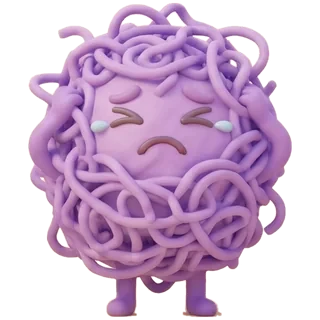
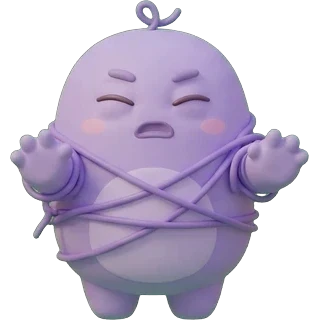
v68：做不到、壓力怪獸重畫（以生氣怪獸為標準）
Claude-Session: https://claude.ai/code/session_01CEkvYNHVvdcEjerzsjeVzZ

diff --git a/js/backup.js b/js/backup.js
@@ -12,7 +12,7 @@ if('serviceWorker' in navigator&&/^https?:$/.test(location.protocol)){
   /* 從背景切回來時，順便問一下有沒有新版 */
   document.addEventListener('visibilitychange',()=>{if(!document.hidden)navigator.serviceWorker.getRegistration().then(r=>r&&r.update()).catch(()=>{})});
   setTimeout(()=>{try{if(sessionStorage.getItem('cmUpdated')){sessionStorage.removeItem('cmUpdated');toast('✨ 已經更新到最新版本（'+APP_VER+'）')}}catch(e){}},1500)}
-const APP_VER='v67';
+const APP_VER='v68';
 function isStandalone(){try{return navigator.standalone===true||matchMedia('(display-mode: standalone)').matches}catch(e){return false}}
 function renderApp(){const box=$('#appBox');if(!box)return;
   const ver=`<br><small style="color:#9b8a7a">目前版本：${APP_VER}</small>`;

diff --git a/sw.js b/sw.js
@@ -1,6 +1,6 @@
 /* 離線快取（v21）：第一次開啟時把整個工具存進裝置，之後沒有網路也能開，而且一點就開。
    ★ 每次更新程式或圖片，都要把下面的 VERSION 改掉（例如 v21 → v22），裝置才會抓新版。 */
-const VERSION='v67';
+const VERSION='v68';
 const CACHE='calm-monster-'+VERSION;
 const FILES=[
   './',

diff --git a/tools/cutout.py b/tools/cutout.py
@@ -1,0 +1,63 @@
+"""綠幕角色圖：去背、去綠邊、切成一隻一隻、丟掉殘影頭、頂滿高度裁切、存 webp（高 320）。
+用法：python3 cutout.py 輸入.jpg 輸出前綴 [張數]
+  張數＝一排有幾隻（1 或 4）。輸出：前綴0.webp…（由左到右）"""
+import sys
+import numpy as np
+from PIL import Image
+from scipy import ndimage
+
+src,prefix=sys.argv[1],sys.argv[2];want=int(sys.argv[3]) if len(sys.argv)>3 else 1
+im=np.asarray(Image.open(src).convert('RGB')).astype(float)
+H,W,_=im.shape
+r,g,b=im[...,0],im[...,1],im[...,2]
+# 綠的程度：綠色比紅藍高多少
+greenness=g-np.maximum(r,b)
+# 背景：很綠；邊緣漸層
+alpha=np.clip((150-greenness)/(150-70),0,1)   # greenness ≥150 全透明；≤70 全不透明
+# 去綠邊：把綠色壓到不超過紅藍的較大者
+spill=np.clip(g-np.maximum(r,b),0,None)
+g2=g-spill*(1-alpha*0.0)                       # 全部去綠（角色本身沒有超過紅藍的綠，除了小勾勾）
+keep_green=(greenness>20)&(greenness<70)&(g<215) # 角色上的深綠小東西（打勾）保留原色
+g2=np.where(keep_green,g,g2)
+rgb=np.stack([r,np.minimum(g,np.maximum(g2,0)),b],2)
+
+solid=alpha>0.5
+lab,n=ndimage.label(solid)
+sizes=ndimage.sum(solid,lab,range(1,n+1))
+objs=ndimage.find_objects(lab)
+comps=[(i+1,sizes[i],objs[i]) for i in range(n) if sizes[i]>H*W*0.0004]
+# 腳底基準：最大幾塊的最低點
+bottoms=sorted([o[0].stop for _,s,o in comps],reverse=True)
+base=bottoms[0]
+# 只留「腳踩在基準線附近」的大塊（丟掉上方殘影頭），以及附在牠身上的小東西
+main=[c for c in comps if c[2][0].stop>base-H*0.12 and c[1]>H*W*0.01]
+main.sort(key=lambda c:c[2][1].start)
+if len(main)!=want:
+    print('警告：找到',len(main),'隻，預期',want)
+mask_all=np.zeros((H,W),bool)
+for lab_id,_,_ in main: mask_all|=(lab==lab_id)
+# 小配件（旗子、紙、筆）：不在主塊但跟主塊很近、而且不在殘影區（底部低於殘影）
+for lab_id,s,o in comps:
+    if any(lab_id==m[0] for m in main):continue
+    ys,xs=o
+    near=any(abs(ys.stop-m[2][0].stop)<H*0.6 and xs.start<m[2][1].stop+40 and xs.stop>m[2][1].start-40 and ys.start>m[2][0].start-H*0.08 for m in main)
+    if near: mask_all|=(lab==lab_id)
+# 擴一點點，把邊緣半透明的像素也包進來
+grow=ndimage.binary_dilation(mask_all,iterations=4)
+a=np.where(grow,alpha,0)
+for k,(lab_id,_,o) in enumerate(main):
+    ys,xs=o
+    # 這一隻的範圍：左右用相鄰兩隻的中間當界線
+    left=0 if k==0 else (main[k-1][2][1].stop+xs.start)//2
+    right=W if k==len(main)-1 else (xs.stop+main[k+1][2][1].start)//2
+    sub=a[:,left:right]
+    rows=np.nonzero(sub.max(1)>0.05)[0];cols=np.nonzero(sub.max(0)>0.05)[0]
+    y0,y1=rows[0],rows[-1]+1;x0,x1=cols[0]+left,cols[-1]+1+left
+    crop_rgb=rgb[y0:y1,x0:x1];crop_a=a[y0:y1,x0:x1]
+    out=np.dstack([crop_rgb,crop_a*255]).clip(0,255).astype(np.uint8)
+    img=Image.fromarray(out,'RGBA')
+    h=320;w=round(img.width*h/img.height)
+    img=img.resize((w,h),Image.LANCZOS)
+    name=f'{prefix}{k}.webp'
+    img.save(name,'WEBP',quality=90,method=4)
+    print(name,img.size,'寬高比',round(w/h,2))

diff --git a/docs/角色規格.md b/docs/角色規格.md
@@ -24,8 +24,16 @@
 - 檔名：`{key}0–4.webp`（平靜＋4 種大小）、`{key}g1–4.webp`（成長）；寬高比不是 1 的話，寫進 `js/data.js` 的 `ASPECT`
 - 處理：`python3 tools/tone.py img 輸出資料夾 --dry` 先看數值，再正式處理
 
-## 目前跟標準差比較多的（2026-11-28 盤點）
-- 做不到（stuck）：毛線球身體、細手腳、小黑點眼睛
-- 壓力（stress）：整隻是書包、旁邊有書
-- 孤單（lonely）：燈籠會發光（光線方向跟大家不一樣，是設計）
-- 難過（sad）：平靜版是瞇眼，跟大家的大圓眼不同
+## 跟標準差比較多的（2026-11-28 盤點）
+- ~~做不到（stuck）：毛線球身體、細手腳、小黑點眼睛~~ → **v68 已重畫**（圓身體纏毛線、頭頂一小段毛線）
+- ~~壓力（stress）：整隻是書包、旁邊有書~~ → **v68 已重畫**（圓圓的小書包、肚子口袋）
+- 孤單（lonely）：燈籠會發光（光線方向跟大家不一樣，是設計）→ 保留
+- 難過（sad）：平靜版是瞇眼 → 保留
+
+## 處理流程（v68 起）
+1. Gemini Spark 綠幕原圖（一排 4 隻或單張）
+2. `python3 tools/cutout.py 原圖 輸出前綴 張數`：去背、去綠邊、丟掉上方殘影頭、頂滿高度裁切、高 320
+   - 殘影頭剛好黏在角色頭上時，先把那一區不是角色顏色的地方塗回綠色再跑（v68 做不到成長第 4 張就是這樣處理）
+3. 寬度補成 320 的正方形；超過 320 的寫進 `js/data.js` 的 `ASPECT`（寬 ÷ 320）
+4. `python3 tools/tone.py 資料夾 輸出 --dry` 看亮度對比，需要再正式處理
+5. 對照 `{key}0`＝冷靜、`{key}1–4`＝大小、`{key}g1–4`＝成長
